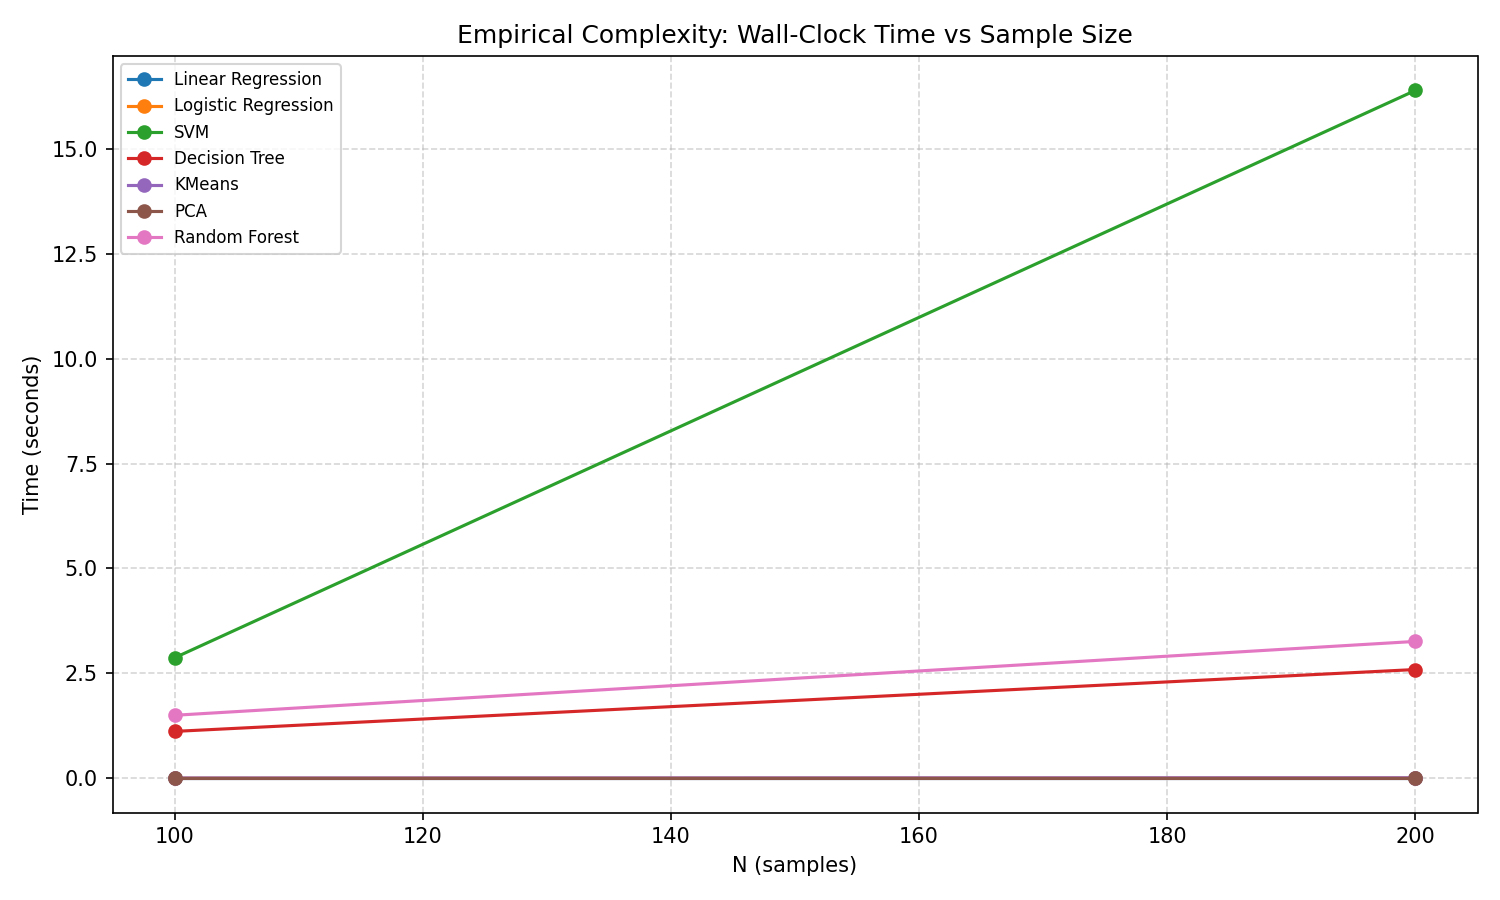
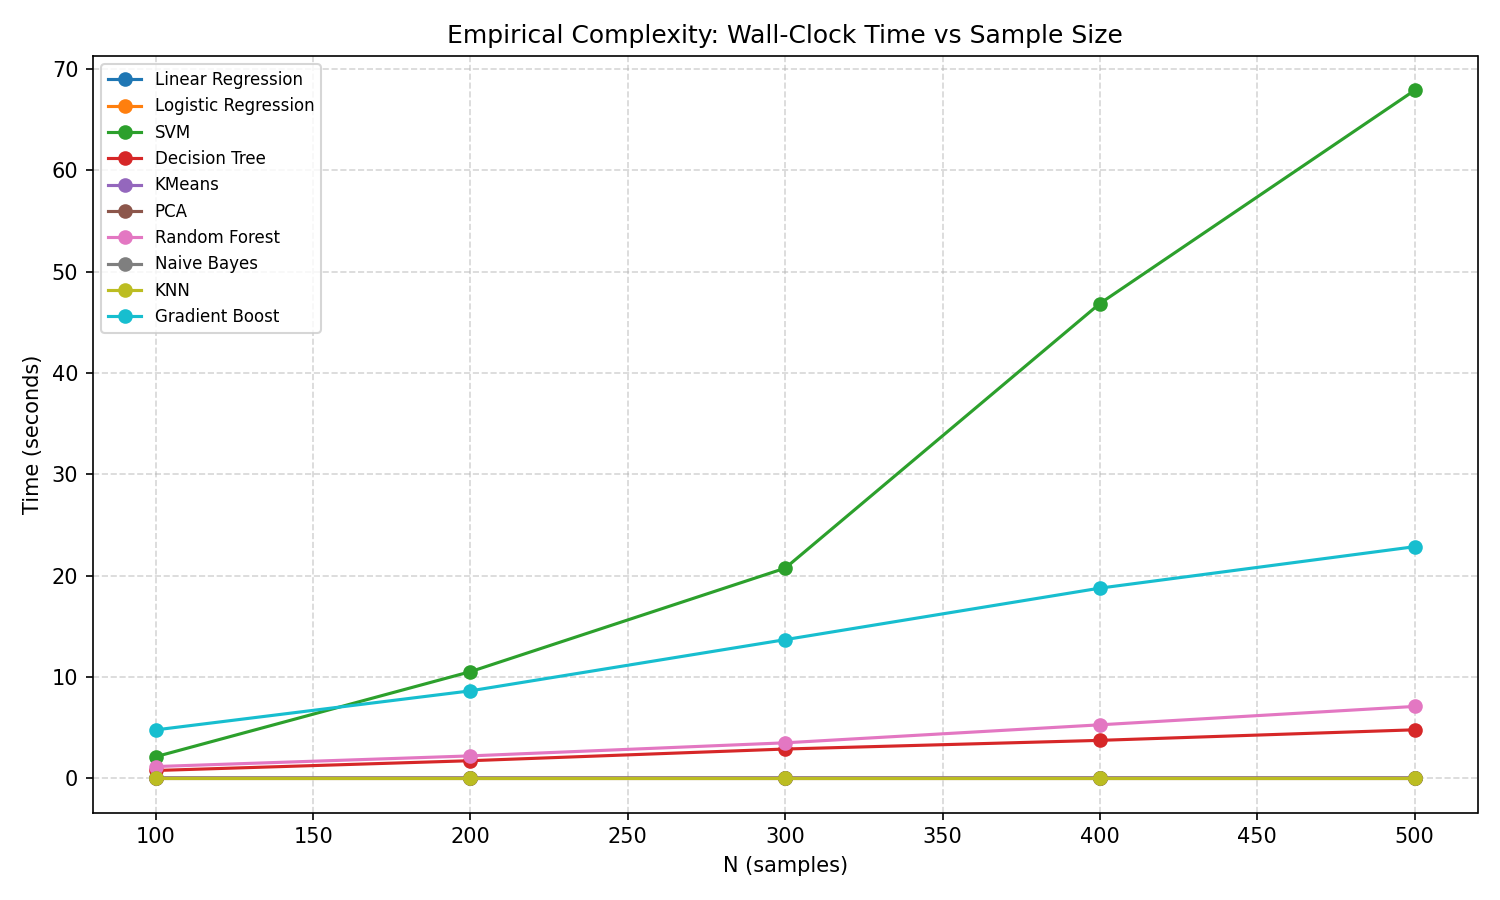
Add remaining algorithms to complexity benchmarks

diff --git a/benchmarks/benchmark.py b/benchmarks/benchmark.py
@@ -59,6 +59,15 @@ def time_it(name, n):
         elif name == 'Random Forest':
             m = ml.Forest(n_trees=10, max_depth=5, task='classify')
             m.fit(X_cls, y_cls)
+        elif name == 'Naive Bayes':
+            m = ml.GaussianNB()
+            m.fit(X_cls, y_cls)
+        elif name == 'KNN':
+            m = ml.KNN(k=3, task='classify')
+            m.fit(X_cls, y_cls)
+        elif name == 'Gradient Boost':
+            m = ml.GradientBoost(n_rounds=10, max_depth=3, task='classify')
+            m.fit(X_cls, y_cls)
     except Exception as e:
         print(f"  Warning: {name} failed at n={n}: {e}")
         return 0.0
@@ -83,6 +92,7 @@ def main():
     algos = [
         'Linear Regression', 'Logistic Regression', 'SVM',
         'Decision Tree', 'KMeans', 'PCA', 'Random Forest',
+        'Naive Bayes', 'KNN', 'Gradient Boost'
     ]
 
     results = {a: [] for a in algos}
